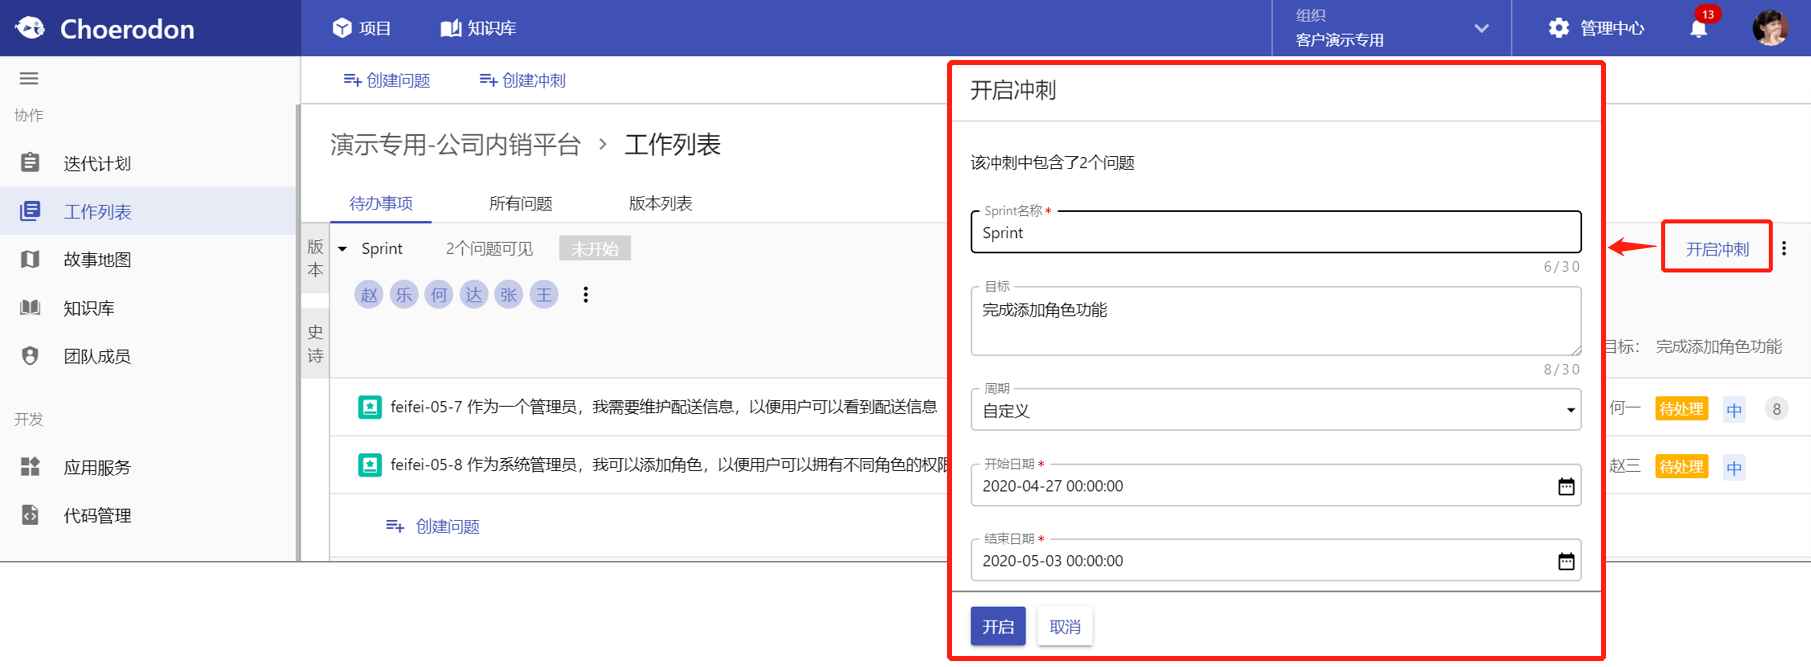
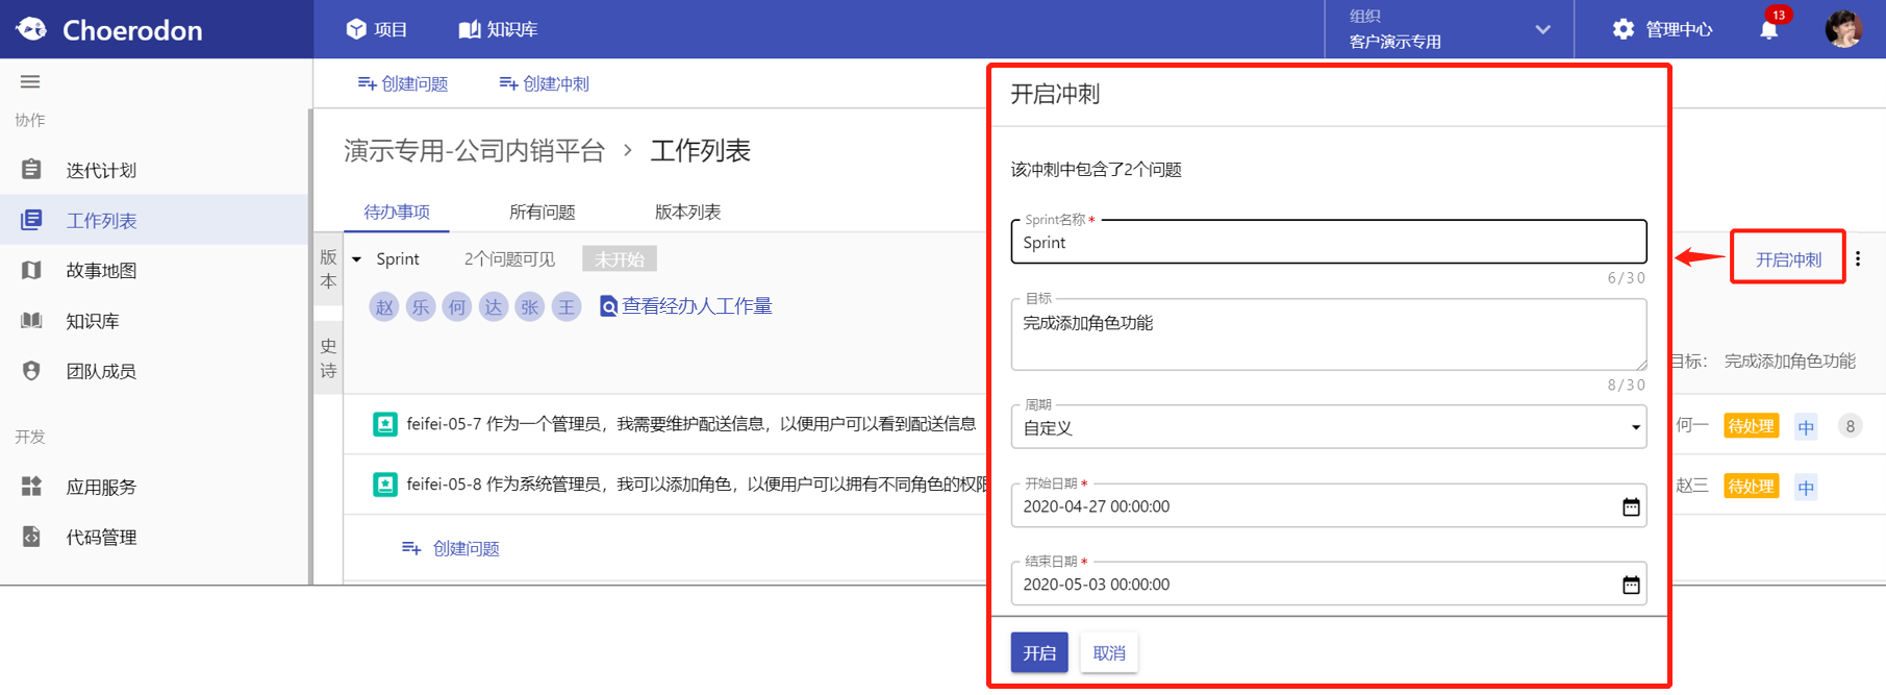
快速入门，部分字段链接修改

diff --git a/content/docs/quick-start/agile/iterative-programming.md b/content/docs/quick-start/agile/iterative-programming.md
@@ -1,12 +1,14 @@
 +++
-title = "4.2.迭代规划"
+title = "4.3.规划并完成一个迭代冲刺"
 description = ""
-weight = 2
+weight = 3
 +++
 
-# 迭代规划
+# 规划并完成一个迭代冲刺
 ## 目标
-迭代规划阶段是团队处理事务的一段迭代周期，可以将需求移动至该阶段，也就是将创建好的问题从待办事项中移入迭代冲刺。本文档面向初次使用 Choerodon 猪齿鱼的用户，引导新手用户在 Choerodon 猪齿鱼系统中`创建问题`、`规划并完成一个迭代冲刺`。
+迭代规划阶段是团队处理事务的一段迭代周期，可以将需求移动至该阶段，也就是将创建好的问题从待办事项中移入迭代冲刺。
+
+迭代冲刺的时间长度在一周到一个月之间，在这个时间段内，团队需要以稳定的步调完成一组与迭代冲刺目标一致的工作。通常，在规划一个迭代冲刺前需要团队进行一次沟通或会议（迭代规划会），确定本次迭代的主要任务和负责人。本文档面向初次使用 Choerodon 猪齿鱼的用户，引导新手用户在 Choerodon 猪齿鱼系统中`规划并完成一个迭代冲刺`。
 
 ## 前置条件
 1. 已部署安装Choerodon 猪齿鱼，并使用默认的 admin 用户名和密码登录了 Choerodon 系统。
@@ -17,31 +19,7 @@ weight = 2
     |admin|组织管理员|管理组织下的项目和成员（组织成员、项目管理员、项目成员）|
 3. 已完成项目创建及团队成员建设。
 
-## 创建一个问题
-问题是项目的基石，在 Choerodon 中问题能被单独分配给某个项目成员，并且设置跟踪的子任务。
-
-问题的类型包括史诗、故事、缺陷、任务，其中创建成功的史诗在左侧`史诗`侧边栏，其他的均在`待办事项`/`所有问题`列表中显示。以下用创建故事为例进行演示。
-
-### 操作示例
-1. 点击`创建问题`按钮，您有两种方法创建问题；
-
- * 方法一：点击工作列表->待办事项/所有问题，上方`创建问题`按钮进行问题详细创建。
-    ![image](/docs/quick-start/agile/image/agile_7.png)
-
- * 方法二：点击工作列表->待办事项/所有问题，问题列表下放`创建问题`按钮进行问题快速创建。快速创建问题后，在问题列表单击问题，对问题详情进行进一步的编辑。
-    ![image](/docs/quick-start/agile/image/agile_8.png)
-
-2. 选择问题类型`故事`，对概要、优先级、经办人等信息进行编辑，同时能对问题进行描述，上传附件。点击`创建`即可。
-    ![image](/docs/quick-start/agile/image/agile_9.png)
-
-3. 分解故事，若需求粒度太粗，可点击故事，展开故事的详情页，点击详情中`创建子任务`将需求分解为粒度较小的子任务。
-    ![image](/docs/quick-start/agile/image/agile_10.png)
-
-
-## 规划并完成一个迭代冲刺
-迭代冲刺的时间长度在一周到一个月之间，在这个时间段内，团队需要以稳定的步调完成一组与迭代冲刺目标一致的工作。通常，在规划一个迭代冲刺前需要团队进行一次沟通或会议（迭代规划会），确定本次迭代的主要任务和负责人。
-
-### 操作示例
+## 操作示例
 1. 创建冲刺，具体操作如下：
 
  * 点击`创建冲刺`直接在待办事项列表中创建一个冲刺；
@@ -58,7 +36,7 @@ weight = 2
 
  * 冲刺名称默认为：冲刺+递增的编号，点击名称可自行进行修改；
  * 冲刺名称下面显示的头像为参与该冲刺的项目成员；
- * 点击冲刺名称下方标识，可以查看该冲刺经办人工作量，包括经办人、问题数量、StoryPoint（用户故事点）、剩余预估时间。
+ * 点击冲刺名称下方`查看经办人工作量`，可以查看该冲刺的总工作量以及各个经办人的工作量，包括经办人、总问题数量、剩余问题数量、StoryPoint（用户故事点）、剩余故事点、总任务工时、剩余任务工时。
 
 4. 开启冲刺;
 

diff --git a/content/docs/quick-start/agile/problem.md b/content/docs/quick-start/agile/problem.md
@@ -1,0 +1,40 @@
++++
+title = "4.2.创建一个问题"
+description = ""
+weight = 2
++++
+
+# 创建一个问题
+## 目标
+问题是项目的基石，在 Choerodon 中问题能被单独分配给某个项目成员，并且设置跟踪的子任务。
+
+问题的类型包括史诗、故事、缺陷、任务，其中创建成功的史诗在左侧`史诗`侧边栏，其他的均在`待办事项`/`所有问题`列表中显示。以下用创建故事为例进行演示。本文档面向初次使用 Choerodon 猪齿鱼的用户，引导新手用户在 Choerodon 猪齿鱼系统中`创建问题`。
+
+## 前置条件
+1. 已部署安装Choerodon 猪齿鱼，并使用默认的 admin 用户名和密码登录了 Choerodon 系统。
+2. 默认的 admin 用户进入 Choerodon 系统后，默认拥有一个组织并为该组织的组织管理员角色。关于Choerodon角色的详情，请移步角色管理。
+
+    |账号|角色|职责|
+    |---|---|---|
+    |admin|组织管理员|管理组织下的项目和成员（组织成员、项目管理员、项目成员）|
+3. 已完成项目创建及团队成员建设。
+
+## 操作示例
+
+1. 点击`创建问题`按钮，您有两种方法创建问题；
+
+ * 方法一：点击工作列表->待办事项/所有问题，上方`创建问题`按钮进行问题详细创建。
+    ![image](/docs/quick-start/agile/image/agile_7.png)
+
+ * 方法二：点击工作列表->待办事项/所有问题，问题列表下放`创建问题`按钮进行问题快速创建。快速创建问题后，在问题列表单击问题，对问题详情进行进一步的编辑。
+    ![image](/docs/quick-start/agile/image/agile_8.png)
+
+2. 选择问题类型`故事`，对概要、优先级、经办人等信息进行编辑，同时能对问题进行描述，上传附件。点击`创建`即可。
+    ![image](/docs/quick-start/agile/image/agile_9.png)
+
+3. 分解故事，若需求粒度太粗，可点击故事，展开故事的详情页，点击详情中`创建子任务`将需求分解为粒度较小的子任务。
+    ![image](/docs/quick-start/agile/image/agile_10.png)
+
+
+## 下一步
+[规划并完成一个迭代冲刺](../../../quick-start/agile/iterative-programming)

diff --git a/content/docs/quick-start/create-project.md b/content/docs/quick-start/create-project.md
@@ -22,9 +22,9 @@ Choerodon目前提供一种项目类型：
 
 ## 操作示例
 
-1. 点击Choerodon平台顶部“**项目**”导航，进入项目列表;
+1. 点击Choerodon平台顶部`项目`导航，进入项目列表;
 
-2. 点击“**创建项目**”按钮，系统会打开创建项目侧开页，如下图所示：
+2. 点击`创建项目`按钮，系统会打开创建项目侧开页，如下图所示：
 
     ![image](/docs/user-guide/image/projects-01.png)
 
@@ -32,7 +32,7 @@ Choerodon目前提供一种项目类型：
 
     ![image](/docs/user-guide/image/projects-02.png)
 
-4. 点击“确定”，完成项目创建。随后您可以进入项目，开始进行团队管理、敏捷协作、需求管理、代码管理、部署、测试、项目设置等工作。
+4. 点击`确定`，完成项目创建。随后您可以进入项目，开始进行团队管理、敏捷协作、需求管理、代码管理、部署、测试、项目设置等工作。
 
 ## 下一步
 [团队建设](../../quick-start/team/)

diff --git a/content/docs/quick-start/devops/back-applications.md b/content/docs/quick-start/devops/back-applications.md
@@ -58,7 +58,7 @@ Choerodon 平台与 Gitlab 名词关系如下：
 
 **第一步：创建** *Feature* **分支**
 
-在 代码管理 -> 分支 界面，选择应用服务`猪齿鱼Todo服务`。点击创建分支，如果没有`issue`可选择，则先[创建问题](/zh/docs/user-guide/cooperation/work-lists/problem/)， 选择对应的issue。分支来源选择master，填写issue号，如feature-1。点击创建，即可创建一个分支。创建完分支之后，您就可以进行后续的本地开发。
+在 代码管理 -> 分支 界面，选择应用服务`猪齿鱼Todo服务`。点击创建分支，如果没有`issue`可选择，则先[创建问题](/zh/docs/quick-start/agile/problem/)， 选择对应的issue。分支来源选择master，填写issue号，如feature-1。点击创建，即可创建一个分支。创建完分支之后，您就可以进行后续的本地开发。
 
 例如，
 

diff --git a/content/docs/quick-start/devops/front-application.md b/content/docs/quick-start/devops/front-application.md
@@ -182,7 +182,7 @@ gitlab中docker_build阶段日志也可查看相应版本。
 ![image](/docs/quick-start/devops/image/front-application-9.png)
 
 ## 部署应用服务
-提供可视化、一键式部署应用，支持并行部署和流水线无缝集成，实现部署环境标准化和部署过程自动化。更多相关信息以及详细操作步骤参考[部署一个应用](/zh/docs/user-guide/deploy/app-deploy/deploy/)。
+提供可视化、一键式部署应用，支持并行部署和流水线无缝集成，实现部署环境标准化和部署过程自动化。更多相关信息以及详细操作步骤参考[部署一个应用服务](/zh/docs/quick-start/devops/deploy-application/)。
 
 具体的操作步骤如下：
 

diff --git a/content/docs/quick-start/team.md b/content/docs/quick-start/team.md
@@ -17,7 +17,8 @@ weight = 3
 
 ## 创建新用户
 ### 操作示例
-组织管理员点击**管理中心**对组织层进行管理，在用户管理中可以通过**创建用户**和**导入用户**两种方法进行新用户创建。
+组织管理员点击**管理中心**对组织层进行管理，在用户管理中可以通过**创建用户**和**导入用户**两种方法进行新用户创建。Choerodon 支持 LDAP 直接导入用户，关于 LDAP 的具体信息，请查看[用户管理](https://choerodon.io/zh/docs/user-guide/manager-guide/manager-center/org-user/)。
+
 ![image](/docs/quick-start/image/user_1.png)
 
 - **创建用户**

diff --git a/content/docs/quick-start/introduction.md b/content/docs/quick-start/introduction.md
@@ -51,7 +51,7 @@ weight = 1
 |||设置|无任何可操作权限。
 
 
-> Choerodon平台支持自定义角色，点击了解[如何自定义角色](../system-configuration/role)。
+> Choerodon平台支持自定义角色，点击了解[如何自定义角色](../../user-guide/manager-guide/system-configuration/role)。
 
 
 

diff --git a/content/docs/quick-start/devops/deploy-application.md b/content/docs/quick-start/devops/deploy-application.md
@@ -33,7 +33,11 @@ weight = 6
 
     ![image](/docs/user-guide/deploy/app-deploy/images/deployment-operation-01.png)
 
+## 下一步
 
+- [知识库快速入门](../../../quick-start/knowledge/)
+- [敏捷快速入门](../../../quick-start/agile/)
+- [测试管理快速入门](../../../quick-start/test/)
 
 
 

diff --git a/content/docs/quick-start/agile/iterative-development.md b/content/docs/quick-start/agile/iterative-development.md
@@ -1,7 +1,7 @@
 +++
-title = "4.3.迭代开发"
+title = "4.4.迭代开发"
 description = ""
-weight = 3
+weight = 4
 +++
 
 # 迭代开发
